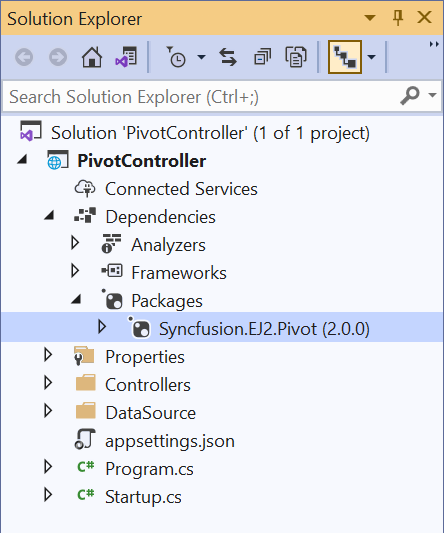
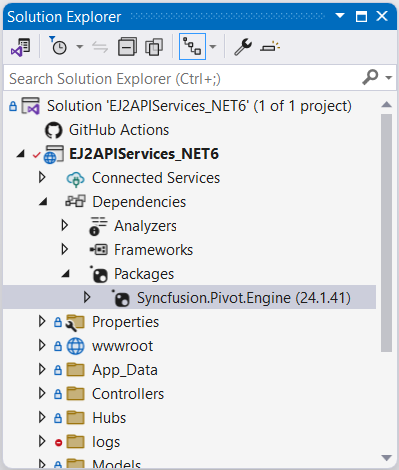
862456: Need to update UG document for EJ2 platforms

diff --git a/ej2-asp-core-mvc/code-snippet/pivot-table/pdf-export/header-footer-image/ThemeExport.cs b/ej2-asp-core-mvc/code-snippet/pivot-table/pdf-export/header-footer-image/ThemeExport.cs
@@ -1,0 +1,6 @@
+public ActionResult Index()
+{
+    var data = GetPivotData();
+    ViewBag.DataSource = data;
+    return View();
+}

diff --git a/ej2-asp-core-mvc/pivot-table/EJ2_ASP.NETCORE/server-side-pivot-engine.md b/ej2-asp-core-mvc/pivot-table/EJ2_ASP.NETCORE/server-side-pivot-engine.md
@@ -13,7 +13,7 @@ N> In general, the Pivot Table is created using the built-in engine for given da
 
 # Getting Started with Syncfusion Server-side Pivot Engine
 
-This section briefs the Syncfusion assembly [`Syncfusion.EJ2.Pivot`](https://www.nuget.org/packages/Syncfusion.EJ2.Pivot/), which is used in a server-side application to perform all Pivot calculations such as aggregation, filtering, sorting, grouping, and so on, and only the information to be displayed in the Pivot Table's viewport is passed to the client-side (browser) via web service (Web API) rather than the entire data source. It reduces network traffic and improves the rendering performance of the Pivot Table, especially when dealing with large amounts of data. It also works best with virtual scrolling enabled and supports all the Pivot Table's existing features.
+This section briefs the Syncfusion assembly [`Syncfusion.Pivot.Engine`](https://www.nuget.org/packages/Syncfusion.Pivot.Engine/), which is used in a server-side application to perform all Pivot calculations such as aggregation, filtering, sorting, grouping, and so on, and only the information to be displayed in the Pivot Table's viewport is passed to the client-side (browser) via web service (Web API) rather than the entire data source. It reduces network traffic and improves the rendering performance of the Pivot Table, especially when dealing with large amounts of data. It also works best with virtual scrolling enabled and supports all the Pivot Table's existing features.
 
 ## Quick steps to render the Pivot Table by using the server-side Pivot Engine
 
@@ -27,7 +27,7 @@ This section briefs the Syncfusion assembly [`Syncfusion.EJ2.Pivot`](https://www
 * **DataSource.cs** file under **DataSource** folder – This file has model classes to define the structure of the data sources.
 * The sample data source files **sales.csv** and **sales-analysis.json** under **DataSource** folder.
 
-**3.** Open the **PivotController** application in Visual Studio where the Syncfusion library [`Syncfusion.EJ2.Pivot`](https://www.nuget.org/packages/Syncfusion.EJ2.Pivot/) will be downloaded automatically from the nuget.org site.
+**3.** Open the **PivotController** application in Visual Studio where the Syncfusion library [`Syncfusion.Pivot.Engine`](https://www.nuget.org/packages/Syncfusion.Pivot.Engine/) will be downloaded automatically from the nuget.org site.
 
 ![Solution Explorer](./images/solution-explorer.png)
 

diff --git a/ej2-asp-core-mvc/pivot-table/EJ2_ASP.MVC/server-side-pivot-engine.md b/ej2-asp-core-mvc/pivot-table/EJ2_ASP.MVC/server-side-pivot-engine.md
@@ -13,7 +13,7 @@ N> In general, the Pivot Table is created using the built-in engine for given da
 
 # Getting Started with Syncfusion Server-side Pivot Engine
 
-This section briefs the Syncfusion assembly [`Syncfusion.EJ2.Pivot`](https://www.nuget.org/packages/Syncfusion.EJ2.Pivot/), which is used in a server-side application to perform all Pivot calculations such as aggregation, filtering, sorting, grouping, and so on, and only the information to be displayed in the Pivot Table's viewport is passed to the client-side (browser) via web service (Web API) rather than the entire data source. It reduces network traffic and improves the rendering performance of the Pivot Table, especially when dealing with large amounts of data. It also works best with virtual scrolling enabled and supports all the Pivot Table's existing features.
+This section briefs the Syncfusion assembly [`Syncfusion.Pivot.Engine`](https://www.nuget.org/packages/Syncfusion.Pivot.Engine/), which is used in a server-side application to perform all Pivot calculations such as aggregation, filtering, sorting, grouping, and so on, and only the information to be displayed in the Pivot Table's viewport is passed to the client-side (browser) via web service (Web API) rather than the entire data source. It reduces network traffic and improves the rendering performance of the Pivot Table, especially when dealing with large amounts of data. It also works best with virtual scrolling enabled and supports all the Pivot Table's existing features.
 
 ## Quick steps to render the Pivot Table by using the server-side Pivot Engine
 
@@ -27,7 +27,7 @@ This section briefs the Syncfusion assembly [`Syncfusion.EJ2.Pivot`](https://www
 * **DataSource.cs** file under **DataSource** folder – This file has model classes to define the structure of the data sources.
 * The sample data source files **sales.csv** and **sales-analysis.json** under **DataSource** folder.
 
-**3.** Open the **PivotController** application in Visual Studio where the Syncfusion library [`Syncfusion.EJ2.Pivot`](https://www.nuget.org/packages/Syncfusion.EJ2.Pivot/) will be downloaded automatically from the nuget.org site.
+**3.** Open the **PivotController** application in Visual Studio where the Syncfusion library [`Syncfusion.Pivot.Engine`](https://www.nuget.org/packages/Syncfusion.Pivot.Engine/) will be downloaded automatically from the nuget.org site.
 
 ![Solution Explorer](images/solution-explorer.png)
 

diff --git a/ej2-asp-core-mvc/pivot-table/EJ2_ASP.MVC/pdf-export.md b/ej2-asp-core-mvc/pivot-table/EJ2_ASP.MVC/pdf-export.md
@@ -100,11 +100,11 @@ When the [`PivotViewDisplayOption`](https://help.syncfusion.com/cr/aspnetmvc-js2
 
 PDF export provides option to customize mapping of pivot table to the exported PDF document.
 
-### To add header and footer
+### To add header and footer while exporting
 
-You can customize text, page number, line, page size and changing orientation in header and footer.
+You can customize text, page number, line, page size and changing orientation in header and footer of the exported document.
 
-#### How to write a text in header/footer
+#### To add a text in header/footer
 
 You can add text either in header or footer of the exported PDF document like in the below code example.
 
@@ -128,7 +128,7 @@ var pdfExportProperties = {
 
 ```
 
-#### How to draw a line in header/footer
+#### To draw a line in header/footer
 
 You can add line either in header or footer of the exported PDF document like in the below code example.
 
@@ -213,7 +213,53 @@ The below code illustrates the PDF export customization options.
 {% endtabs %}
 {% endif %}
 
+#### Add an image in header/footer
 
+You can add image (Base64 string) either in header or footer of the exported PDF document like in the below code example.
+
+```javascript
+
+ var pdfExportProperties = {
+    header: {
+        fromTop: 0,
+        height: 130,
+        contents: [
+            {
+                type: 'Image',
+                src: image,
+                position: { x: 20, y: 10 },
+                size: { height: 100, width: 100 },
+            }
+        ]
+    }
+}
+
+```
+
+The below code illustrates the PDF export customization options.
+
+{% if page.publishingplatform == "aspnet-core" %}
+
+{% tabs %}
+{% highlight cshtml tabtitle="CSHTML" %}
+{% include code-snippet/pivot-table/pdf-export/header-footer-image/tagHelper %}
+{% endhighlight %}
+{% highlight c# tabtitle="ThemeExport.cs" %}
+{% include code-snippet/pivot-table/pdf-export/header-footer-image/ThemeExport.cs %}
+{% endhighlight %}
+{% endtabs %}
+
+{% elsif page.publishingplatform == "aspnet-mvc" %}
+
+{% tabs %}
+{% highlight razor tabtitle="CSHTML" %}
+{% include code-snippet/pivot-table/pdf-export/header-footer-image/razor %}
+{% endhighlight %}
+{% highlight c# tabtitle="ThemeExport.cs" %}
+{% include code-snippet/pivot-table/pdf-export/header-footer-image/ThemeExport.cs %}
+{% endhighlight %}
+{% endtabs %}
+{% endif %}
 
 ### Changing the file name while exporting
 

diff --git a/ej2-asp-core-mvc/pivot-table/EJ2_ASP.NETCORE/pdf-export.md b/ej2-asp-core-mvc/pivot-table/EJ2_ASP.NETCORE/pdf-export.md
@@ -100,11 +100,11 @@ When the [`e-displayOption`](https://help.syncfusion.com/cr/aspnetcore-js2/Syncf
 
 PDF export provides option to customize mapping of pivot table to the exported PDF document.
 
-### To add header and footer
+### To add header and footer while exporting
 
-You can customize text, page number, line, page size and changing orientation in header and footer.
+You can customize text, page number, line, page size and changing orientation in header and footer of the exported document.
 
-#### How to write a text in header/footer
+#### To add a text in header/footer
 
 You can add text either in header or footer of the exported PDF document like in the below code example.
 
@@ -128,7 +128,7 @@ var pdfExportProperties = {
 
 ```
 
-#### How to draw a line in header/footer
+#### To draw a line in header/footer
 
 You can add line either in header or footer of the exported PDF document like in the below code example.
 
@@ -213,7 +213,53 @@ The below code illustrates the PDF export customization options.
 {% endtabs %}
 {% endif %}
 
+#### Add an image in header/footer
 
+You can add image (Base64 string) either in header or footer of the exported PDF document like in the below code example.
+
+```javascript
+
+ var pdfExportProperties = {
+    header: {
+        fromTop: 0,
+        height: 130,
+        contents: [
+            {
+                type: 'Image',
+                src: image,
+                position: { x: 20, y: 10 },
+                size: { height: 100, width: 100 },
+            }
+        ]
+    }
+}
+
+```
+
+The below code illustrates the PDF export customization options.
+
+{% if page.publishingplatform == "aspnet-core" %}
+
+{% tabs %}
+{% highlight cshtml tabtitle="CSHTML" %}
+{% include code-snippet/pivot-table/pdf-export/header-footer-image/tagHelper %}
+{% endhighlight %}
+{% highlight c# tabtitle="ThemeExport.cs" %}
+{% include code-snippet/pivot-table/pdf-export/header-footer-image/ThemeExport.cs %}
+{% endhighlight %}
+{% endtabs %}
+
+{% elsif page.publishingplatform == "aspnet-mvc" %}
+
+{% tabs %}
+{% highlight razor tabtitle="CSHTML" %}
+{% include code-snippet/pivot-table/pdf-export/header-footer-image/razor %}
+{% endhighlight %}
+{% highlight c# tabtitle="ThemeExport.cs" %}
+{% include code-snippet/pivot-table/pdf-export/header-footer-image/ThemeExport.cs %}
+{% endhighlight %}
+{% endtabs %}
+{% endif %}
 
 ### Changing the file name while exporting
 

diff --git a/ej2-asp-core-mvc/pivot-table/EJ2_ASP.NETCORE/virtual-scrolling.md b/ej2-asp-core-mvc/pivot-table/EJ2_ASP.NETCORE/virtual-scrolling.md
@@ -51,6 +51,7 @@ The virtual scrolling option allows you to load the large amounts of data withou
 * Grouping, which takes additional time to splitting the raw items into the provided format.
 * Date Formatting, which takes additional time to convert date format.
 * Date Formatting with sorting, here additionally full date time format should be framed to perform sorting along with the provided date format which lags the performance.
+* When using OLAP data, subtotals and grandtotals are only displayed when measures are bound at the last position in the [`Row`](https://help.syncfusion.com/cr/aspnetcore-js2/Syncfusion.EJ2.PivotView.PivotViewRow.html) or [`Column`](https://help.syncfusion.com/cr/aspnetcore-js2/Syncfusion.EJ2.PivotView.ColumnsDataSourceSettings.html) axis. Otherwise, the data from the pivot table will be shown without summary totals.
 * Even if virtual scrolling is enabled, not only is the current view port data retrieved, but also the data for the immediate previous page and the immediate next page. As a result, when the end user scrolls slightly ahead or behind, the next or previous page data is displayed immediately without requiring a refresh. **Note:** If the pivot table's width and height are large, the loading data count in the current, previous, and next view ports (pages) will also increase, affecting performance.
 
 ## Data Compression

diff --git a/ej2-asp-core-mvc/pivot-table/EJ2_ASP.MVC/virtual-scrolling.md b/ej2-asp-core-mvc/pivot-table/EJ2_ASP.MVC/virtual-scrolling.md
@@ -51,6 +51,7 @@ The virtual scrolling option allows you to load the large amounts of data withou
 * Grouping, which takes additional time to splitting the raw items into the provided format.
 * Date Formatting, which takes additional time to convert date format.
 * Date Formatting with sorting, here additionally full date time format should be framed to perform sorting along with the provided date format which lags the performance.
+* When using OLAP data, subtotals and grandtotals are only displayed when measures are bound at the last position in the [`Row`](https://help.syncfusion.com/cr/aspnetmvc-js2/Syncfusion.EJ2.PivotView.PivotViewRow.html) or [`Column`](https://help.syncfusion.com/cr/aspnetmvc-js2/Syncfusion.EJ2.PivotView.ColumnsDataSourceSettings.html) axis. Otherwise, the data from the pivot table will be shown without summary totals.
 * Even if virtual scrolling is enabled, not only is the current view port data retrieved, but also the data for the immediate previous page and the immediate next page. As a result, when the end user scrolls slightly ahead or behind, the next or previous page data is displayed immediately without requiring a refresh. **Note:** If the pivot table's width and height are large, the loading data count in the current, previous, and next view ports (pages) will also increase, affecting performance.
 
 ## Data Compression
